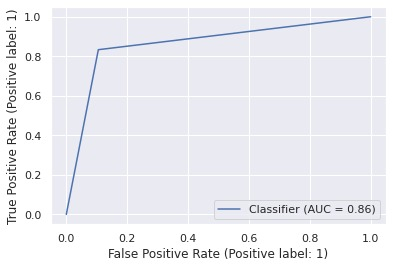
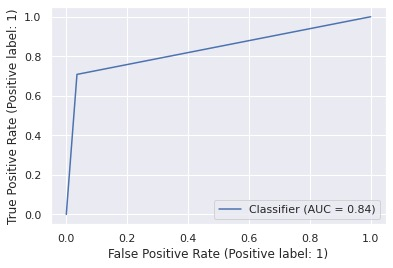
Imgs updated

Changed region(s): [[0.1527, 0.0597, 0.9466, 0.806], [0.3359, 0.209, 0.4275, 0.2388], [0.916, 0.7463, 0.9466, 0.806]]

diff --git a/screens/Alg2Screen.js b/screens/Alg2Screen.js
@@ -30,7 +30,7 @@ export default function Alg2Screen() {
                         <View className="flex-column space-y-2">
                             <Text className="text-lg text-gray-500">Precisión obtenida</Text>
                             <View className="flex items-center">
-                                <Text className="text-lg">0.8765432098765432</Text>
+                                <Text className="text-lg">0.8888888888888888</Text>
                             </View>
                         </View>
 
@@ -55,7 +55,7 @@ export default function Alg2Screen() {
                         <View className="flex-column space-y-2">
                             <Text className="text-lg text-gray-500">AUC</Text>
                             <View className="flex items-center">
-                                <Text className="text-lg">0.86</Text>
+                                <Text className="text-lg">0.84</Text>
                             </View>
                         </View>
 
@@ -63,7 +63,7 @@ export default function Alg2Screen() {
                             <Text className="text-lg text-gray-500">Puntaje obtenido en Kaggle</Text>
                             <View className="flex items-center">
                                 <Image 
-                                    source={require('../assets/main/Juan.jpg')}
+                                    source={require('../assets/alg2/kaggle.jpeg')}
                                     className="h-24 w-full" />
                             </View>
                         </View>

diff --git a/screens/Alg1Screen.js b/screens/Alg1Screen.js
@@ -63,7 +63,7 @@ export default function Alg1Screen() {
                             <Text className="text-lg text-gray-500">Puntaje obtenido en Kaggle</Text>
                             <View className="flex items-center">
                                 <Image 
-                                    source={require('../assets/main/Juan.jpg')}
+                                    source={require('../assets/alg1/kaggle.jpeg')}
                                     className="h-24 w-full" />
                             </View>
                         </View>

diff --git a/back/flaskfile.py b/back/flaskfile.py
@@ -6,10 +6,6 @@ app = Flask(__name__)
 model = pickle.load(open('perceptron.pkl', 'rb'))
 
 
-@app.route('/')
-def home():
-    return "HOME"
-
 @app.route('/', methods=['POST'])
 def predict():
 
@@ -27,12 +23,6 @@ def predict():
     prediction = model.predict(final_features)
     print(prediction[0])
     return "{}".format(prediction)
-    '''
-    int_features = [float(x) for x in request.form.values()]
-    final_features = np.array(int_features).reshape(1,-1)
-    prediction = model.predict(final_features)
-    return render_template('index.html', prediction_text='Predicted Category {}'.format(prediction))
-    '''
 
 if __name__ == "__main__":
     app.run('192.168.1.69')
